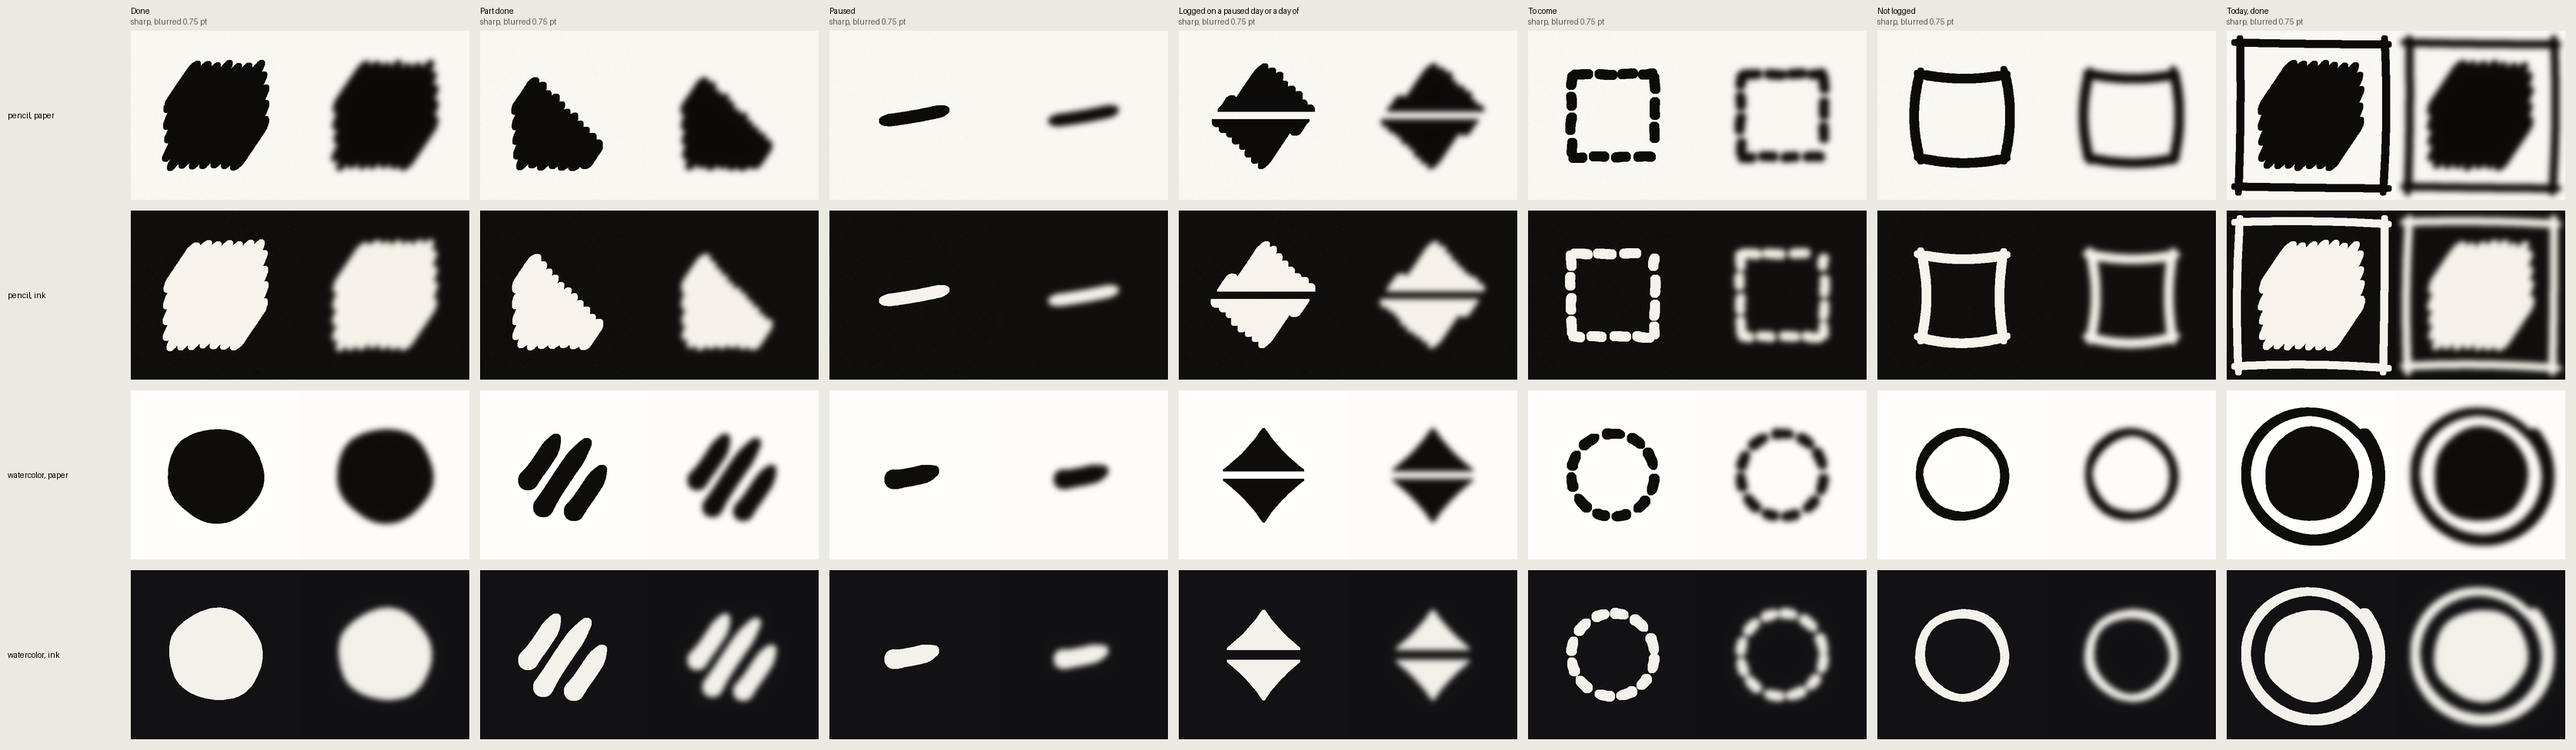
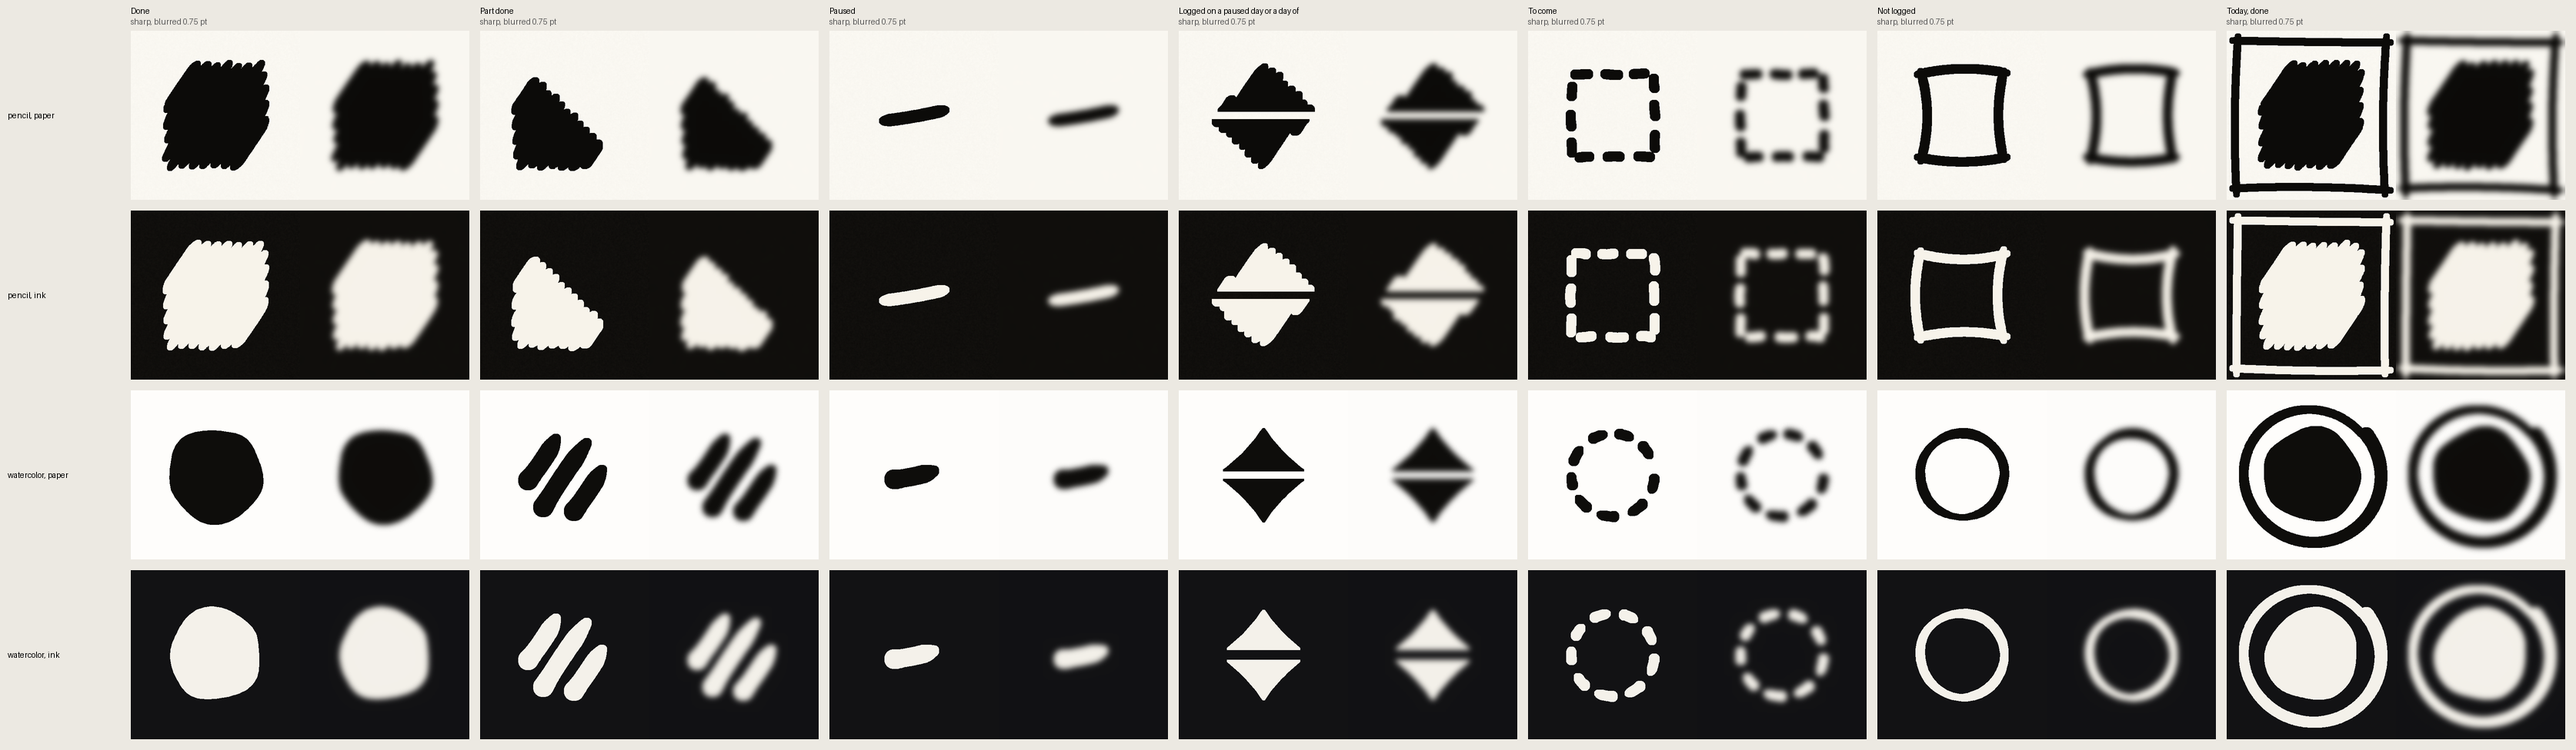
Step 4, round one fixes: written rule, clearance, to-come dashes, row lines
Claude-Session: https://claude.ai/code/session_012NdevCAvT4U8qS7nMJ64YM

diff --git a/tools/marks/full_marks.py b/tools/marks/full_marks.py
@@ -47,6 +47,9 @@ SQUARE = [(-H, -H), (H, -H), (H, H), (-H, H)]
 LOWER = [(-H, -H), (-H, H), (H, H)]
 DIAMOND = [(0, -H), (H, 0), (0, H), (-H, 0)]
 CUT = 1.25
+GROW = 0.0                   # Increase Contrast: the today square is half a point larger and the ring 0.6, so the heavier strokes keep 3 points clear
+GAPX = 0.0                   # Increase Contrast: extra space between the dashes of 'to come', so 2 points of paper remain after the strokes thicken
+AMP = 0.035                  # how uneven the Watercolor disc's edge is
 tooth = gaussian_filter(rng.random((N, N)), 1.2); tooth = (tooth - tooth.min()) / (tooth.max() - tooth.min())
 speck = gaussian_filter(rng.random((N, N)), 2.6); speck = (speck - speck.min()) / (speck.max() - speck.min())   # charcoal specks, about half a point across
 dimple = gaussian_filter(rng.random((N, N)), 6); dimple = (dimple - dimple.min()) / (dimple.max() - dimple.min())
@@ -108,7 +111,7 @@ def pencil(state):
             t = 0.04
             while t < 0.9:
                 ln = (2.6 + rng.random() * 1.8) / (2 * q); t1 = min(t + ln, 0.98)
-                m = np.maximum(m, hand_line(ax + (bx - ax) * t, ay + (by - ay) * t, ax + (bx - ax) * t1, ay + (by - ay) * t1, 2.0)); t = t1 + (2.2 + rng.random() * 0.8) / (2 * q)
+                m = np.maximum(m, hand_line(ax + (bx - ax) * t, ay + (by - ay) * t, ax + (bx - ax) * t1, ay + (by - ay) * t1, 2.0)); t = t1 + (2.2 + rng.random() * 0.8 + GAPX) / (2 * q)
         return m, m
     if state == "notlogged":
         q = H * 0.9; m = np.zeros((N, N))
@@ -117,7 +120,7 @@ def pencil(state):
     return np.zeros((N, N)), np.zeros((N, N))
 
 def pencil_today():                                         # four strokes whose ends cross and overshoot each corner by 1 point
-    q = H + 7; m = np.zeros((N, N))      # 3 points clear of the mark, stroke ends and bow included
+    q = H + 7 + GROW; m = np.zeros((N, N))      # 3 points clear of the mark, stroke ends and bow included
     for x0, y0, x1, y1 in [(-q - 1, -q, q + 1, -q + 0.5), (q, -q - 1, q - 0.4, q + 1), (q + 1, q, -q - 1, q - 0.5), (-q, q + 1, -q + 0.4, -q - 1)]:
         m = np.maximum(m, mask(lambda d: stamp(d, bowed(x0, y0, x1, y1, (rng.random() - 0.5) * 1.6), taper(1.5, 0.75, 0.06))))
     return m
@@ -151,7 +154,7 @@ def wash(shape, ink):
 
 def water(state, ink=False):
     R = H
-    if state == "done": return wash(wobble_shape(lambda: disc_pts(R)), ink)
+    if state == "done": return wash(wobble_shape(lambda: disc_pts(R, AMP)), ink)
     if state == "diamond":
         sh = wobble_shape(diamond_pts) * (1 - mask(lambda d: poly(d, [(-H * 2, -CUT / 2), (H * 2, -CUT / 2), (H * 2, CUT / 2), (-H * 2, CUT / 2)])))
         return wash(sh, ink)
@@ -167,14 +170,14 @@ def water(state, ink=False):
         while a0 < 2 * math.pi - 0.3:
             a1 = a0 + (2.4 + rng.random() * 1.6) / r
             m = np.maximum(m, mask(lambda d: stamp(d, [(r * math.cos(a0), r * math.sin(a0)), (r * 1.01 * math.cos((a0 + a1) / 2), r * 1.01 * math.sin((a0 + a1) / 2)), (r * math.cos(a1), r * math.sin(a1))], brush(2.0), 20)))
-            a0 = a1 + (2.3 + rng.random() * 0.8) / r
+            a0 = a1 + (2.3 + rng.random() * 0.8 + GAPX) / r
         return m, m > 0.99
     if state == "notlogged":                                # one thin closed ring at the done mark's size
         o = wobble_shape(lambda: disc_pts(R * 0.98, 0.02)); i = wobble_shape(lambda: disc_pts(R * 0.98 - 1.7, 0.035)); m = np.clip(o - i, 0, 1); return m, m > 0.99
     return np.zeros((N, N)), np.zeros((N, N), bool)
 
 def water_today():                                          # one brushed ring: pooled where it starts, thin where it lifts, gap of 1 point at most
-    r = H + 5.4; n = 120; gap = 1.0 / r; start = -0.7
+    r = H + 5.4 + GROW * 1.2; n = 120; gap = 1.0 / r; start = -0.7
     def at(i): a = start + gap + (2 * math.pi - gap) * i / n; rr = r + 0.3 * math.sin(a * 2 + 0.6) - 0.9 * (i / n); return rr * math.cos(a), rr * math.sin(a)   # the end lands just inside the start
     def width(i): t = i / n; return max(1.5, 3.0 - 1.5 * t ** 0.7)       # 3 points where it pools at the start, thinning all the way round to 1.5 where it lifts
     return mask(lambda d: [stamp(d, [at(i), at(i + 0.5), at(i + 1)], (lambda t, w=width(i): w), 4) for i in range(n)])
@@ -193,18 +196,22 @@ def heavier(m):                                             # Increase Contrast:
     return maximum_filter((np.asarray(m, float) > 0.5).astype(float), size=round(0.5 * S) + 1)
 
 def render(style, ap, state, accent, outline=False, ic=False):
-    global CUT
+    global CUT, GROW, GAPX, AMP
     field, worst, text = papers(style, ap); ink = ap == "ink"
     if ic:                                                  # marks in the text colour, flat, heavier; the diamond's cut half a point wider as drawn; Watercolor loses wash and grain
         if state == "today": state, outline = "done", True
         fn = pencil if style == "pencil" else (lambda s: water(s, ink))
-        CUT = 1.25 + 0.5 + 0.5                              # drawn a point wider, because the heavier strokes take half a point back
+        GAPX, AMP = 1.5, 0.06; CUT = 1.25 + 0.5 + 0.5                              # drawn a point wider, because the heavier strokes take half a point back
         try: a, _ = fn(state)
-        finally: CUT = 1.25
+        finally: CUT, GAPX, AMP = 1.25, 0.0, 0.035
         a = heavier(a)
         if style == "watercolor": field = np.ones_like(field) * hexrgb(TOK["styles"][style][ap]["paper"])
         img = field * (1 - a[..., None]) + text * a[..., None]
-        if outline: ring = heavier(pencil_today() if style == "pencil" else water_today()); img = img * (1 - ring[..., None]) + text * ring[..., None]
+        if outline:
+            GROW = 0.5
+            try: ring = heavier(pencil_today() if style == "pencil" else water_today())
+            finally: GROW = 0.0
+            img = img * (1 - ring[..., None]) + text * ring[..., None]
         return img, ratio(float(lum(text[None])[0]), float(lum(worst[None])[0]))
     fn = pencil if style == "pencil" else (lambda s: water(s, ink))
     strength = TOK["markAlpha"][style] if not (style == "watercolor" and ink) else 1.0

diff --git a/tools/marks/today_rows.py b/tools/marks/today_rows.py
@@ -50,14 +50,14 @@ def panel(style, ap, ic=False):
             yy += h; x0, x1 = 21 + 2 + rng.random() * 2, W - 21 - 2 - rng.random() * 2; bow = (rng.random() - 0.5) * 2; ph = rng.random(2) * 6.28
             for px in range(int(x0 * Q), int(x1 * Q)):
                 t = (px / Q - x0) / (x1 - x0); cyp = (yy + bow * math.sin(math.pi * t)) * Q
-                press = 1.0 if ic else (0.62 + 0.2 * math.sin(t * 5 + ph[0]) + 0.12 * math.sin(t * 17 + ph[1])) * min(1, t / 0.03 + 0.4, (1 - t) / 0.03 + 0.4)
+                press = 0.5 if ic else (0.62 + 0.2 * math.sin(t * 5 + ph[0]) + 0.12 * math.sin(t * 17 + ph[1])) * min(1, t / 0.03 + 0.4, (1 - t) / 0.03 + 0.4)
                 for py in range(int(cyp - Q), int(cyp + Q) + 1):
                     a = max(0, 1 - abs(py - cyp) / (Q * 0.55)) * press * (1 if ic else (0.25 if big[py, px] > 0.6 else 1))
                     field[py, px] = field[py, px] * (1 - a) + text * a
     im = Image.fromarray((np.clip(field, 0, 1) * 255).astype("uint8")); d = ImageDraw.Draw(im)
     if ic and style == "watercolor":                                         # Increase Contrast: one straight line, 1 point, in the text colour
         yy = 96
-        for h in hs[:-1]: yy += h; d.line([(21 * Q, yy * Q), ((W - 21) * Q, yy * Q)], fill=mix(text, text, 0), width=Q)
+        for h in hs[:-1]: yy += h; d.line([(21 * Q, yy * Q), ((W - 21) * Q, yy * Q)], fill=mix(paper, text, 0.5), width=Q)
     tcol, sec = mix(text, text, 0), mix(paper, text, min(1, tok["secondaryAlpha"] + (0.15 if ic else 0)))
     d.text((21 * Q, 24 * Q), "Today", font=display(style, 34 * Q), fill=tcol)
     d.text((21 * Q, 68 * Q), "Saturday 14 November", font=label(15 * Q), fill=sec)

diff --git a/docs/spec-m4.md b/docs/spec-m4.md
@@ -170,3 +170,24 @@ Gates before the milestone 4 build:
 - Human factors sees the Watercolor paused dab and the Watercolor diamond inside the ring. Test: shown one row for a glance, does either read as a delete button or as a stepper with two arrows. If it fails, the mark changes before it is built.
 - A three-line name and the largest text size are checked on the in-app screens. If rows stop separating in Watercolor, the row gap grows with the text size.
 - Whether Pen and ink drops the plus in a counted control: human factors and first-day user.
+
+## Step 4: Increase Contrast. Drawn, in review
+
+The rule, gathered from condition 7, step 3 and `CLAUDE.md`. Lines marked "new" go beyond those and move to `docs/decisions.md` when this file is merged.
+
+- Every mark is drawn in the text colour. The accent is not used. Measured 16.6:1 to 19.1:1.
+- Every stroke is half a point heavier. Marks are flat: no wash, no rim, no specks.
+- New: the diamond's cut is 1.75 points at 24 points, half a point wider than usual.
+- New: the today square is half a point larger and the ring 0.6 of a point larger, so the heavier strokes keep 3 points clear of the mark. Both stay inside 44 points.
+- New: the dashes of "to come" sit further apart, so 2 points of bare paper remain between them after the strokes thicken.
+- New: the Watercolor disc keeps an uneven edge and the ring keeps its thick start and thin end, so the control does not read as a radio button.
+- Pencil keeps its paper grain. Watercolor loses its grain.
+- Lines between rows, both styles: 1 point, the text colour at half strength, unbroken. Watercolor has a line here only under Increase Contrast, as step 3 says.
+- New: secondary text is stronger by 0.15 of the text colour. Measured 12.1:1 to 13.7:1.
+- State is carried by shape. Nothing here uses colour.
+
+Drawings: `docs/mockups/png/m4-today-rows-ic.png` and `docs/mockups/png/m4-marks-ic.png`, from `today_rows.py` and `full_marks.py` with the `ic` argument.
+
+Closed: the step 3 clearance owed item. The lens measured 3.0 to 4.2 points without Increase Contrast.
+
+Added to the human factors gate before the build: in black, the Watercolor disc in a ring (radio button), the paused dab in a ring (delete button), and the diamond's two triangles in both styles (stepper arrows).
